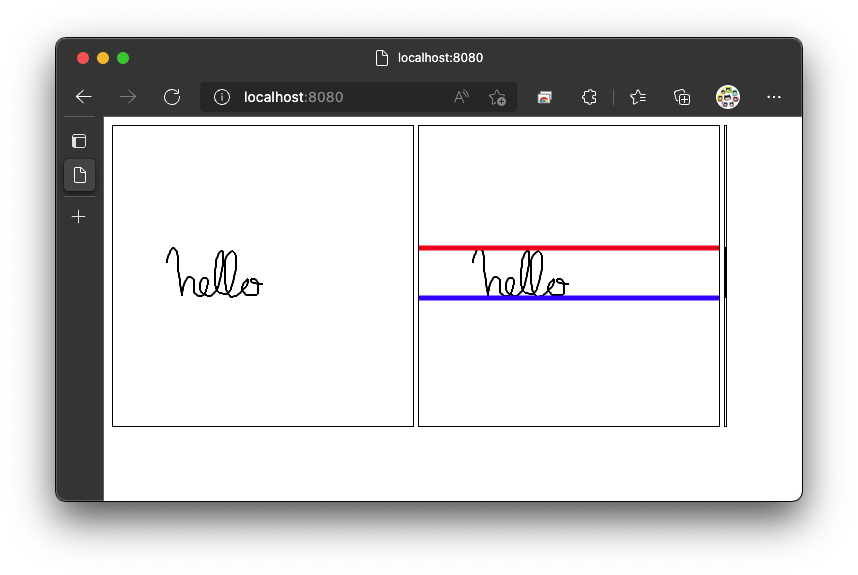
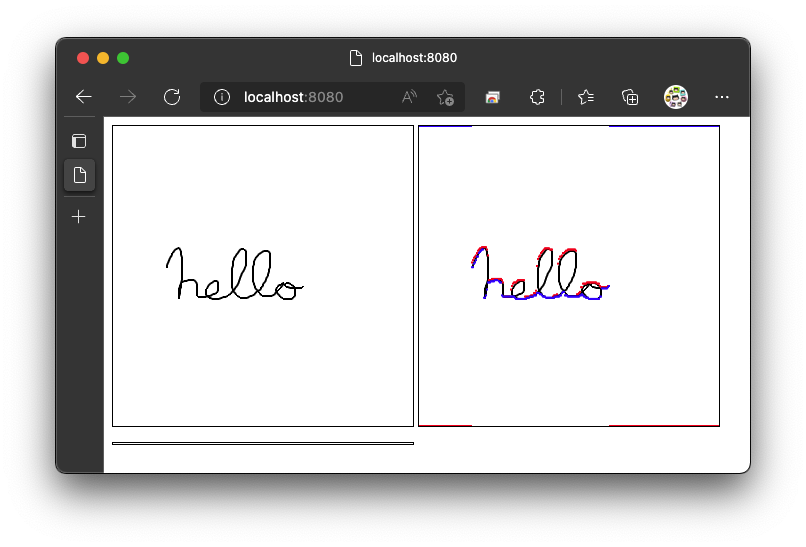
Update files

diff --git a/src/index.ts b/src/index.ts
@@ -41,24 +41,21 @@ function presentSkyBottomLine() {
   outputCtx.clearRect(0, 0, output.width, output.height);
   outputCtx.drawImage(input, 0, 0);
 
-  function drawHorizontalLine(y: number, color: string) {
-    outputCtx.strokeStyle = color;
-    outputCtx.lineWidth = 5;
-    outputCtx.beginPath();
-    outputCtx.moveTo(0, y);
-    outputCtx.lineTo(output.width, y);
-    outputCtx.stroke();
+  function drawPixel(x: number, y: number, color: string) {
+    outputCtx.fillStyle = color;
+    outputCtx.fillRect(x - 1, y - 1, 2, 2);
   }
 
-  const [sky, bottom] = getSkyBottomLine();
-  drawHorizontalLine(sky, "#ff0000");
-  drawHorizontalLine(bottom, "#0000ff");
+  const [skyLine, bottomLine] = getSkyBottomLine();
+  for (let x = 0; x < input.width; ++x) {
+    drawPixel(x, skyLine[x], "#ff0000");
+    drawPixel(x, bottomLine[x], "#0000ff");
+  }
 }
 
 // const glCanvas = document.createElement("canvas");
-// glCanvas.width = 1;
-// glCanvas.height = input.height;
-
+// glCanvas.width = input.width;
+// glCanvas.height = 1;
 const glCanvas = document.getElementById("glCanvas")! as HTMLCanvasElement;
 const gl = glCanvas.getContext("webgl")!;
 if (!gl) {
@@ -107,7 +104,7 @@ gl.texParameteri(gl.TEXTURE_2D, gl.TEXTURE_WRAP_T, gl.CLAMP_TO_EDGE);
 gl.texParameteri(gl.TEXTURE_2D, gl.TEXTURE_MIN_FILTER, gl.NEAREST);
 gl.texParameteri(gl.TEXTURE_2D, gl.TEXTURE_MAG_FILTER, gl.NEAREST);
 
-function getSkyBottomLine(): [number, number] {
+function getSkyBottomLine(): [number[], number[]] {
   gl.clearColor(0, 0, 0, 0);
   gl.clear(gl.COLOR_BUFFER_BIT);
 
@@ -125,22 +122,15 @@ function getSkyBottomLine(): [number, number] {
   );
   gl.drawArrays(gl.TRIANGLES, 0, 6);
 
-  const pixels = new Uint8Array(1 * glCanvas.height * 4);
-  gl.readPixels(0, 0, 1, glCanvas.height, gl.RGBA, gl.UNSIGNED_BYTE, pixels);
+  const pixels = new Uint8Array(glCanvas.width * 4);
+  gl.readPixels(0, 0, glCanvas.width, 1, gl.RGBA, gl.UNSIGNED_BYTE, pixels);
 
-  const skyLine = (() => {
-    for (let i = glCanvas.height - 1; i >= 0; --i) {
-      if (pixels[4 * i + 3] > 0) return glCanvas.height - i;
-    }
-    return NaN;
-  })();
-
-  const bottomLine = (() => {
-    for (let i = 0; i < glCanvas.height; ++i) {
-      if (pixels[4 * i + 3] > 0) return glCanvas.height - i;
-    }
-    return NaN;
-  })();
+  const skyLine: number[] = [];
+  const bottomLine: number[] = [];
+  for (let i = 0; i < glCanvas.width; ++i) {
+    skyLine.push(pixels[i * 4 + 0] / 255 * input.height);
+    bottomLine.push(pixels[i * 4 + 1] / 255 * input.height);
+  }
 
   return [skyLine, bottomLine];
 }

diff --git a/public/index.html b/public/index.html
@@ -7,6 +7,7 @@
   <body>
     <canvas id="input" width="300" height="300"></canvas>
     <canvas id="output" width="300" height="300"></canvas>
-    <canvas id="glCanvas" width="1" height="300"></canvas>
+    <br>
+    <canvas id="glCanvas" width="300" height="1"></canvas>
   </body>
 </html>
